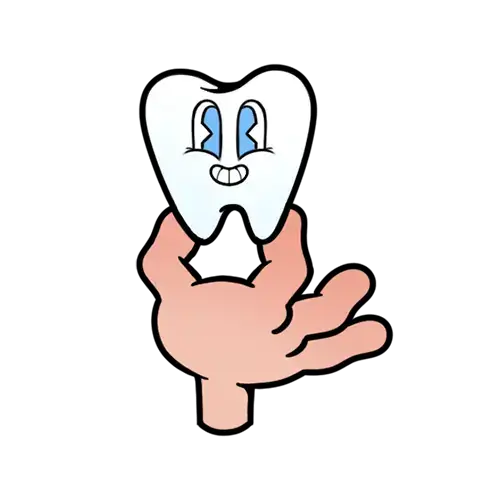
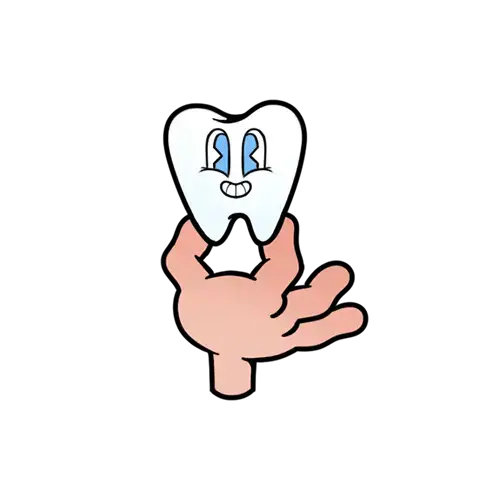
FOOTER-improvements-v2

Changed region(s): [[0.27, 0.12, 0.81, 0.87]]

diff --git a/index.html b/index.html
@@ -24,7 +24,7 @@
     <div class="footer__wrapper">
       <div class="footer__content-panels">
         <div class="footer__content-panel footer__content-panel--left">
-          <div class="footer__logo">
+          <a href="/" class="footer__logo">
             <svg version="1.1" class="footer__logo-svg" xmlns="http://www.w3.org/2000/svg" xmlns:xlink="http://www.w3.org/1999/xlink" x="0px" y="0px"
               viewBox="0 0 432 77.33" xml:space="preserve">
               <style type="text/css">
@@ -63,35 +63,24 @@
                 </g>
               </g>
             </svg>
-          </div>
+          </a>
           <nav class="footer__nav" aria-labelledby="footer-navigation-menu">
-            <div class="footer__nav-column">
-              <ul class="footer__nav-list">
-                <li class="footer__nav-item"><a href="#" class="footer__nav-link">About us</a></li>
-                <li class="footer__nav-item"><a href="#" class="footer__nav-link">Contact us</a></li>
-                <li class="footer__nav-item"><a href="#" class="footer__nav-link">Blog</a></li>
-                <li class="footer__nav-item"><a href="#" class="footer__nav-link">MSDS</a></li>
-              </ul>
-            </div>
-            <div class="footer__nav-column">
-              <ul class="footer__nav-list">
-                <li class="footer__nav-item"><a href="#" class="footer__nav-link">Allergen info</a></li>
-                <li class="footer__nav-item"><a href="#" class="footer__nav-link">Order Now</a></li>
-                <li class="footer__nav-item"><a href="#" class="footer__nav-link">How to apply</a></li>
-              </ul>
-            </div>
-            <div class="footer__nav-column">
-              <ul class="footer__nav-list">
-                <li class="footer__nav-item"><a href="#" class="footer__nav-link">Return Policy</a></li>
-                <li class="footer__nav-item"><a href="#" class="footer__nav-link">Terms of Service</a></li>
-                <li class="footer__nav-item"><a href="#" class="footer__nav-link">Patient instruction card</a></li>
-                <li class="footer__nav-item"><a href="#" class="footer__nav-link">Privacy Policy</a></li>
-              </ul>
-            </div>
+            <ul class="footer__nav-list">
+              <li class="footer__nav-item"><a href="#" class="footer__nav-link">About us</a></li>
+              <li class="footer__nav-item"><a href="#" class="footer__nav-link">Allergen info</a></li>
+              <li class="footer__nav-item"><a href="#" class="footer__nav-link">Return Policy</a></li>
+              <li class="footer__nav-item"><a href="#" class="footer__nav-link">Contact us</a></li>
+              <li class="footer__nav-item"><a href="#" class="footer__nav-link">How to apply</a></li>
+              <li class="footer__nav-item"><a href="#" class="footer__nav-link">Terms of Service</a></li>
+              <li class="footer__nav-item"><a href="#" class="footer__nav-link">MSDS</a></li>
+              <li class="footer__nav-item"><a href="#" class="footer__nav-link">Privacy Policy</a></li>
+              <li class="footer__nav-item"><a href="#" class="footer__nav-link">Patient instruction card</a></li>
+              <li class="footer__nav-item"><a href="#" class="footer__nav-link">Order Now</a></li>
+            </ul>
           </nav>
         </div>
-        <div class="footer__content-panel footer__content-panel--right" data-footer-picture>
-          <img src="./images/cone-character.webp" alt="A cone character" class="footer__dynamic-img fade-in">
+        <div class="footer__content-panel footer__content-panel--right" data-footer-changing-picture>
+          <!-- <img src="./images/cone-character.webp" alt="A cone character" class="footer__dynamic-img fade-in"> -->
         </div>
       </div>
       <div class="footer__content-panel footer__content-panel--credits">

diff --git a/css/footer.css b/css/footer.css
@@ -12,7 +12,7 @@
 }
 @media screen and (max-width: 480px) {
   .footer {
-    --picture-width: 210px;
+    --picture-width: 200px;
   }
 }
 .footer__wrapper {
@@ -32,7 +32,7 @@
   -webkit-box-align: stretch;
       -ms-flex-align: stretch;
           align-items: stretch;
-  padding-inline: 2rem;
+  padding-inline: 2em;
   -webkit-box-sizing: border-box;
           box-sizing: border-box;
 }
@@ -42,6 +42,11 @@
     -webkit-box-direction: normal;
         -ms-flex-direction: column;
             flex-direction: column;
+  }
+}
+@media screen and (max-width: 480px) {
+  .footer__content-panels {
+    padding-inline: 1em;
   }
 }
 .footer__content-panel--right {
@@ -56,6 +61,11 @@
     margin-bottom: 2em;
   }
 }
+@media screen and (max-width: 480px) {
+  .footer__content-panel--right {
+    margin-bottom: 0;
+  }
+}
 .footer__content-panel--left {
   width: 60%;
   padding-block: 1.25em;
@@ -63,6 +73,11 @@
 @media screen and (max-width: 768px) {
   .footer__content-panel--left {
     width: 100%;
+  }
+}
+@media screen and (max-width: 480px) {
+  .footer__content-panel--left {
+    padding-bottom: 0;
   }
 }
 .footer__content-panel--credits {
@@ -73,47 +88,47 @@
   font-size: 0.625em;
 }
 .footer__logo {
+  display: block;
   width: 10em;
   margin-top: 2em;
-  margin-bottom: 2.3em;
+  margin-bottom: 1.5em;
   -webkit-transform: translateX(-0.5em);
           transform: translateX(-0.5em);
+  scale: 1;
+  -webkit-transition: scale 300ms ease;
+  transition: scale 300ms ease;
 }
-.footer__nav {
-  display: -webkit-box;
-  display: -ms-flexbox;
-  display: flex;
-  gap: 2em 3.5em;
-}
-@media screen and (max-width: 768px) {
-  .footer__nav {
-    -ms-flex-wrap: wrap;
-        flex-wrap: wrap;
-  }
-}
-.footer__nav-column {
-  margin-bottom: 3em;
-}
-@media screen and (max-width: 768px) {
-  .footer__nav-column {
-    margin-bottom: 1em;
-  }
+.footer__logo:hover, .footer__logo:focus-visible {
+  scale: 1.1;
 }
 .footer__nav-list {
+  width: -webkit-max-content;
+  width: -moz-max-content;
+  width: max-content;
   list-style: none;
   -webkit-padding-start: 0;
           padding-inline-start: 0;
   margin: 0;
-  display: -webkit-box;
-  display: -ms-flexbox;
-  display: flex;
-  -webkit-box-orient: vertical;
-  -webkit-box-direction: normal;
-      -ms-flex-direction: column;
-          flex-direction: column;
-  gap: 0.8em;
+  display: grid;
+  grid-template-columns: repeat(3, auto);
+  gap: 0.8em 3.5em;
+  margin-bottom: 3em;
+}
+@media screen and (max-width: 480px) {
+  .footer__nav-list {
+    grid-template-columns: repeat(2, auto);
+    margin-bottom: 1em;
+  }
+}
+@media screen and (max-width: 350px) {
+  .footer__nav-list {
+    grid-template-columns: repeat(1, auto);
+  }
 }
 .footer__nav-link {
+  width: -webkit-max-content;
+  width: -moz-max-content;
+  width: max-content;
   color: #ffffff;
   text-decoration: none;
   font-size: 0.875em;
@@ -128,9 +143,9 @@
 .footer__dynamic-img {
   position: absolute;
   top: 50%;
-  left: 50%;
-  -webkit-transform: translate(-50%, -50%);
-          transform: translate(-50%, -50%);
+  right: 0;
+  -webkit-transform: translateY(-50%);
+          transform: translateY(-50%);
   display: block;
   width: var(--picture-width);
   height: auto;
@@ -140,6 +155,13 @@
 }
 .footer__dynamic-img.fade-in {
   opacity: 1;
+}
+@media screen and (max-width: 768px) {
+  .footer__dynamic-img {
+    right: 50%;
+    -webkit-transform: translate(50%, -50%);
+            transform: translate(50%, -50%);
+  }
 }
 .footer__wonderful-credits, .footer__shopify-credits {
   color: #a1a1a1;

diff --git a/js/footer.js b/js/footer.js
@@ -12,8 +12,10 @@ function animateGradient() {
 setInterval(animateGradient, 50);
 
 // dynamic pictures (make fade from one to another picture)
-let currentIndex = 1;
-const pictures = [
+const footerChangingPictureContainer = document.querySelector('[data-footer-changing-picture]');
+let currentIndex = -1;
+let changingPictureInProgress = false;
+const footerChangingPictures = [
   {
     src: './images/boy-character.webp',
     alt: 'A boy character',
@@ -56,22 +58,38 @@ const pictures = [
   },
 ];
 
-function changePicture() {
-    const pictureElement = document.querySelector('[data-footer-picture]');
-    const oldImg = pictureElement.querySelector('img');
+window.addEventListener('load', () => {
+    changePicture();
+});
 
-    const nextIndex = (currentIndex + 1) % pictures.length;
-    const randomPicture = pictures[nextIndex];
+footerChangingPictureContainer.addEventListener('click', () => {
+    changePicture();
+});
+
+function changePicture() {
+    if (changingPictureInProgress) return;
+
+    const oldImg = footerChangingPictureContainer.querySelector('img');
+    changingPictureInProgress = true;
+
+    let nextIndex;
+    do {
+        nextIndex = getRandomNumber(0, footerChangingPictures.length);
+    } while(nextIndex === currentIndex);
+    const randomPicture = footerChangingPictures[nextIndex];
     currentIndex = nextIndex;
     const newImg = document.createElement('img');
     newImg.src = randomPicture.src;
     newImg.alt = randomPicture.alt;
     newImg.style = randomPicture.style;
     newImg.classList.add("footer__dynamic-img");
-    pictureElement.appendChild(newImg);
+    footerChangingPictureContainer.appendChild(newImg);
 
-    oldImg.classList.remove('fade-in');
+    oldImg?.classList.remove('fade-in');
     setTimeout(() => { newImg.classList.add('fade-in'); }, 0);
-    setTimeout(() => { oldImg.remove(); }, 500);
+    setTimeout(() => { oldImg?.remove(); changingPictureInProgress = false; }, 500);
 }
-setInterval(changePicture, 6000);
+
+function getRandomNumber(min, max) {
+    return Math.floor(Math.random() * (max - min)) + min;
+}
